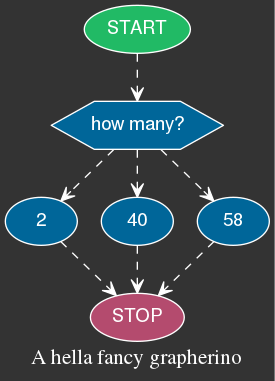
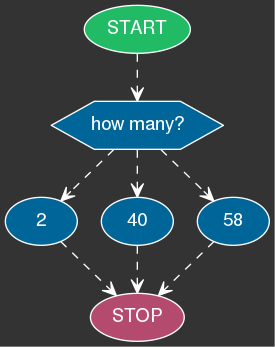
images

diff --git a/basic_graph/test.py b/basic_graph/test.py
@@ -23,7 +23,5 @@ g1.edge('C', 'STOP')
 g1.edge('D', 'STOP')
 g1.edge('E', 'STOP')
 
-g1.graph_attr['label']='A hella fancy grapherino'
-
 g1 = apply_styles(g1, styles)
 g1.render('img/g1')
